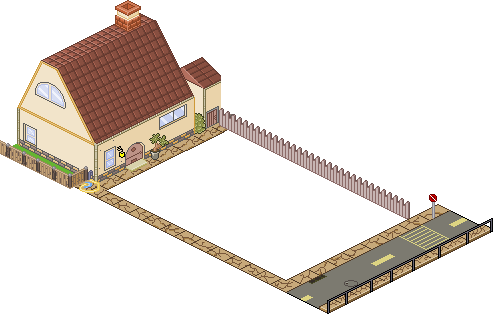
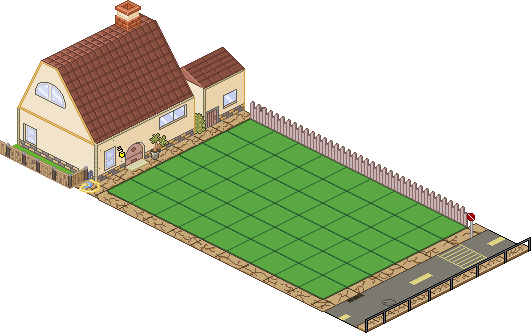
Added Background, mouse detection

diff --git a/assets/grass_tiles.tsx b/assets/grass_tiles.tsx
@@ -2,5 +2,5 @@
 <tileset version="1.10" tiledversion="1.10.2" name="Green Grass Tiles" tilewidth="48" tileheight="24" tilecount="1" columns="1">
  <grid orientation="isometric" width="48" height="48"/>
  <transformations hflip="0" vflip="0" rotate="0" preferuntransformed="1"/>
- <image source="grass2.png" width="48" height="24"/>
+ <image source="grass.png" width="48" height="24"/>
 </tileset>

diff --git a/core/src/com/pvz/game/Tilemap.java b/core/src/com/pvz/game/Tilemap.java
@@ -19,6 +19,7 @@ import com.badlogic.gdx.maps.tiled.TmxMapLoader;
 import com.badlogic.gdx.maps.tiled.renderers.OrthogonalTiledMapRenderer;
 import com.badlogic.gdx.math.Rectangle;
 import com.badlogic.gdx.math.Vector2;
+import com.pvz.game.tiles.BackgroundTile;
 import com.pvz.game.tiles.PlantTile;
 import com.pvz.game.tiles.Tile;
 
@@ -28,11 +29,14 @@ public class Tilemap {
 	public List<Tile> zombies= new LinkedList<Tile>();
 	public List<PlantTile> base = new LinkedList<PlantTile>();
 	private Texture grass;
-	private Texture grassHigh;
 	private Texture peashooter;
 	private Texture houseBG;
 	private TiledMap isoMap;
 	private Vector2 baseCorner = new Vector2();
+	private BackgroundTile background;
+	//This is really horrible, but since im using an overlayed image these offsets have to exist
+	private Vector2 horribleBackgroundOffset = new Vector2(-(6*TILE_WIDTH) + (TILE_WIDTH/4) + 1, -TILE_HEIGHT/2 +2);
+	
 
 	private String[][] map = {
 			{"0", "0", "0", "0", "0", "0", "0", "0", "0"},
@@ -43,15 +47,14 @@ public class Tilemap {
 			{"0", "0", "0", "0", "0", "0", "0", "0", "0"},
 	}; 
 
+
 	public static final float TILE_WIDTH = 48;
 	public static final float TILE_HEIGHT = 48;
 
-
 	public Tilemap(TiledMap iso) {
 		isoMap = iso;
-		grass = new Texture("grass3.png");
+		grass = new Texture("grass.png");
 		grass.setFilter(TextureFilter.Nearest, TextureFilter.Nearest);
-		grassHigh = new Texture("grass3H.png");
 		peashooter = new Texture("peashooter.png");
 		houseBG = new Texture("background6x9.png");
 
@@ -61,26 +64,22 @@ public class Tilemap {
 
 	public void render(SpriteBatch batch) {
 		for(PlantTile t : base) {
-			t.render(batch);
-		}
-		for(PlantTile t : plants) {
 //			t.render(batch);
 		}
+
+		background.render(batch);
+
+		for(PlantTile t : plants) {
+			t.render(batch);
+		}
+
 
 	}
 
 	public void fillMap() {
 
-
-		
-
-//		for(int row = map.length-1; row >= 0; row--) {
-//			for(int col = map[row].length-1; col >= 0; col--) {
-//				float x = (row - col) * TILE_WIDTH/2;
-//				float y = (col + row) * TILE_HEIGHT/4;
-//			}
-//		}
 		Vector2 corner = baseCorner.add(new Vector2((map.length) *(TILE_WIDTH/2) + TILE_WIDTH /2, -(map[map.length-1].length) *(TILE_HEIGHT/4) ));
+		background = new BackgroundTile(houseBG, new Vector2(0, 0), new Vector2(baseCorner.x + horribleBackgroundOffset.x , baseCorner.y + horribleBackgroundOffset.y ));
 		for(int row = 1;row < map.length+1; row++) {
 			for(int col = 0; col < map[row-1].length;col++) {
 				float x = corner.x + ((row - col) * TILE_WIDTH/2);
@@ -116,41 +115,6 @@ public class Tilemap {
 	}
 
 	
-	
-	public Tile get(float mouseX) {
-		float halfWidth = TILE_WIDTH / 2f;
-		float halfHeight = TILE_HEIGHT / 2f;
-
-		Vector2 corner = baseCorner.add(new Vector2((map.length) *(TILE_WIDTH/2) + TILE_WIDTH /2, -(map[map.length-1].length) *(TILE_HEIGHT/4) ));
-//		int col = (int) Math.floor((mouseY / halfHeight - (mouseX / halfWidth - 1f)) / 2 );
-//		int row = (int) Math.floor(((mouseX / halfWidth + mouseY / halfHeight) - 1f) / 2);
-		
-		int col = (int) Math.floor((mouseY / TILE_HEIGHT - mouseX / TILE_WIDTH + 0.5f));
-		int row = (int) Math.floor((mouseX / TILE_WIDTH  + mouseY / TILE_HEIGHT - 0.5f));
-
-
-		if (row < 0 || row >= map.length || col < 0 || col >= map[0].length) {
-			// Handle the case where the coordinates are outside the map bounds.
-			return null;
-		}
-
-		Vector2 tilemapPos = new Vector2(row, col);
-//		float x = (row - col) * halfWidth;
-//		float y = (col + row) * halfHeight;
-			float x = corner.x + ((row - col) * TILE_WIDTH/2);
-				float y = corner.y + ((col + row) * TILE_HEIGHT/4);
-
-		if (map[row][col].equals("0")) {
-			return new PlantTile(grass, tilemapPos, new Vector2(x, y));
-		} else if (map[row][col].equals("1")) {
-			return new PlantTile(grass, tilemapPos, new Vector2(x, y));
-		} else {
-			// Handle other cases if needed.
-			return null;
-		}
-	}
-
-
 
 
 	public void set(Tile t) {

diff --git a/core/src/com/pvz/game/screens/GameScreen.java b/core/src/com/pvz/game/screens/GameScreen.java
@@ -30,10 +30,9 @@ public class GameScreen implements Screen{
 	private OrthographicCamera camera;
 	private Tilemap mapObjects;
 	private int scrollSpeed = 100;
-	private int zoomSpeed = 10;
+	private int zoomSpeed = 5;
 	private Vector3 unprojectVector = new Vector3();
 	private Vector2 worldMousePosition = new Vector2();
-	private Vector2 worldPosition = new Vector2();
 	private Tile prevHover;
 
 	private TmxMapLoader maploader;
@@ -45,7 +44,7 @@ public class GameScreen implements Screen{
 
 		this.batch = batch;
 		camera = new OrthographicCamera(Gdx.graphics.getWidth(), Gdx.graphics.getHeight());
-		port = new FitViewport(1920/2,1080/2, camera);
+		port = new FitViewport(1920/3,1080/3, camera);
 		camera.position.set(170, 0, 0);
 		maploader = new TmxMapLoader();
 		map = maploader.load("tileset.tmx");

diff --git a/core/src/com/pvz/game/tiles/BackgroundTile.java b/core/src/com/pvz/game/tiles/BackgroundTile.java
@@ -1,0 +1,27 @@
+package com.pvz.game.tiles;
+
+import com.badlogic.gdx.graphics.Texture;
+import com.badlogic.gdx.graphics.g2d.SpriteBatch;
+import com.badlogic.gdx.math.Vector2;
+
+public class BackgroundTile extends Tile{
+	
+	
+	public BackgroundTile(Texture t, Vector2 tileMapPos, Vector2 worldPos) {
+		super(t, tileMapPos, worldPos);
+	}
+	
+	@Override
+	public void render(SpriteBatch batch) {
+		batch.draw(texture, worldPos.x, worldPos.y);
+	}
+	
+	@Override
+	public void setTexture(Texture tex) {
+		this.texture = tex;
+	}
+	
+	
+	
+	
+}

diff --git a/core/src/com/pvz/game/tiles/ZombieTile.java b/core/src/com/pvz/game/tiles/ZombieTile.java
@@ -1,0 +1,27 @@
+package com.pvz.game.tiles;
+
+import com.badlogic.gdx.graphics.Texture;
+import com.badlogic.gdx.graphics.g2d.SpriteBatch;
+import com.badlogic.gdx.math.Vector2;
+
+public class ZombieTile extends Tile{
+	
+	
+	public ZombieTile(Texture t, Vector2 tileMapPos, Vector2 worldPos) {
+		super(t, tileMapPos, worldPos);
+	}
+	
+	@Override
+	public void render(SpriteBatch batch) {
+		batch.draw(texture, worldPos.x, worldPos.y);
+	}
+	
+	@Override
+	public void setTexture(Texture tex) {
+		this.texture = tex;
+	}
+	
+	
+	
+	
+}
